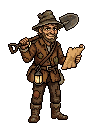
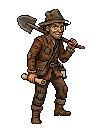
Events approved, the Targowisko's merchant, and three of the author's notes
The author: "278 A / 279 B / 280 D / 281 B / 282 tak / 283 tak / 284 tak".
The three events with a further choice are no longer drafts, with the
lost girl's figure B and the treasure hunter's D. The Targowisko has its
resident, Gościwit the merchant, with a story and greetings for the
author to approve; buying at his stall brings his relation, as many
points as the Kompania Kupców' reputation.

From the author's notes the same afternoon:
- "Klasa czeka: rozdaj Punkty Umiejętności" on the Statystyki card showed
  long before the class reached its first evolution, as the engine counts
  the points of the levels still to come; it shows only at that level now,
  as on the Umiejętności screen.
- The Karczma's words about the companions are the author's, with
  "zbuduj Kwatery w obozie" in bold and underlined.
- A herb, potion, material or part on the Targowisko opens its card under
  a tap: what it is, what the scrapper pays, the Zielarstwo level of a
  herb and how many the character has, with the merchant's "Kup" there.

Claude-Session: https://claude.ai/code/session_01EFZUMqpHps3KDRogHBzjf3

diff --git a/src/client/screens/market.js b/src/client/screens/market.js
@@ -9,7 +9,7 @@
 import { herbSprite, potionSprite } from '../art.js';
 import { materialIcon } from '../craft-table.js';
 import { h, icon } from '../dom.js';
-import { countOf, formatNumber } from '../format.js';
+import { countOf, formatDecimal, formatNumber } from '../format.js';
 import { call, serverNow, state } from '../state.js';
 import { closeSheet, confirmAction, openSheet, systemPanel, toast, withButton } from '../ui.js';
 import { itemSummary } from './character.js';
@@ -58,6 +58,55 @@ function stackLine(goods, { count = true } = {}) {
     ),
   );
 }
+
+// How many of a stack's goods the character already has.
+function owned(goods) {
+  const character = state.character;
+  if (goods.kind === 'herb') return character.herbs?.find((one) => one.id === goods.key)?.count ?? 0;
+  if (goods.kind === 'potion') return character.potions?.find((one) => one.id === goods.key)?.count ?? 0;
+  if (goods.kind === 'material') return character.crafting?.materials.find((one) => one.key === goods.key)?.count ?? 0;
+  if (goods.kind === 'part') return character.crafting?.parts.find((one) => one.id === goods.key)?.count ?? 0;
+  return 0;
+}
+
+// A stack's card (the author: "bym mogl kliknac przedmiot i go sprawdzić u
+// kupca"): its picture, what it is, what the scrapper pays for a piece, the
+// Zielarstwo level that gathers a herb, and how many the character has;
+// `actions` below, as the merchant's "Kup".
+function goodsSheet(goods, actions = null) {
+  const rarity = rarityOf(goods.rarity);
+  const colour = rarity ? { '--rarity': rarity.color } : {};
+  openSheet(
+    h(
+      'div',
+      { class: 'item-details' },
+      h(
+        'div',
+        { class: 'item-head' },
+        h('span', { class: 'item-art', vars: colour }, stackArt(goods, 32)),
+        h(
+          'div',
+          {},
+          h('h2', { class: 'item-title', vars: colour, text: goods.name }),
+          h('p', { class: 'item-meta', text: [KIND_NAMES[goods.kind], rarity?.name].filter(Boolean).join(' · ') }),
+        ),
+      ),
+      goods.description && h('p', { class: 'sheet-text', text: goods.description }),
+      h(
+        'ul',
+        { class: 'item-properties' },
+        goods.scrap !== undefined && goods.scrap !== null && h('li', { class: 'item-price', text: `U złomiarza: ${formatDecimal(goods.scrap)} złota za sztukę` }),
+        goods.gatherLevel && h('li', { text: `Do zebrania w Zielarstwie od poziomu ${goods.gatherLevel}.` }),
+        h('li', { text: `Masz: ${formatNumber(owned(goods))} szt.` }),
+      ),
+    ),
+    actions,
+  );
+}
+
+// A stack in one line that opens its card under a tap.
+const stackButton = (goods, options, actions) =>
+  h('button', { type: 'button', class: 'market-goods-button', 'aria-label': `${goods.name}: szczegóły`, onClick: () => goodsSheet(goods, actions?.()) }, stackLine(goods, options));
 
 // An item to buy, its properties under a tap, and when the character can
 // wear it: an item from the Targowisko is worn from its own level on, as
@@ -123,7 +172,7 @@ export function mountMarket(holder) {
     clocks.push({ element, at });
     return element;
   };
-  const goodsEntry = (goods, key) => (goods.kind === 'item' ? itemEntry(goods.item, key, opened) : stackLine(goods));
+  const goodsEntry = (goods, key) => (goods.kind === 'item' ? itemEntry(goods.item, key, opened) : stackButton(goods));
 
   async function load() {
     try {
@@ -363,7 +412,16 @@ export function mountMarket(holder) {
             h(
               'li',
               { class: 'card market-offer' },
-              stackLine(good, { count: false }),
+              stackButton(good, { count: false }, () => [
+                h('p', { class: 'market-price', text: `Kupiec: ${formatNumber(good.price)} zł za sztukę, dziś jeszcze ${formatNumber(good.left)} szt.` }),
+                h('button', {
+                  type: 'button',
+                  class: 'button button--world',
+                  text: 'Kup',
+                  disabled: good.left < 1 || state.character.gold < good.price,
+                  onClick: () => merchantSheet(good),
+                }),
+              ]),
               h('p', { class: 'market-price', text: `${formatNumber(good.price)} zł za sztukę` }),
               h('p', { class: 'muted', text: good.left > 0 ? `Dziś jeszcze ${formatNumber(good.left)} szt.` : 'Na dziś wykupione.' }),
               h(

diff --git a/src/server/market.js b/src/server/market.js
@@ -23,11 +23,13 @@ import {
   itemName,
   itemView,
   listBlock,
+  materialPrice,
   materialView,
   merchantStock,
   minimumBid,
   offerLimit,
   parseStack,
+  potionPrice,
   questPeriod,
   randomItem,
   sellerShare,
@@ -62,7 +64,10 @@ async function atomically(db, statements) {
   }
 }
 
-// A stack's goods by kind and key, as a parcel or an offer shows them.
+// A stack's goods by kind and key, as a parcel or an offer shows them, with
+// what its card tells (the author: "bym mogl kliknac przedmiot i go
+// sprawdzić u kupca"): its description, what the scrapper pays for a piece
+// (`scrap`) and, for a herb, the Zielarstwo level that gathers it.
 function goodsView(kind, key, count, item) {
   if (kind === 'item') {
     const data = JSON.parse(item);
@@ -70,11 +75,21 @@ function goodsView(kind, key, count, item) {
   }
   if (kind === 'material') {
     const material = materialView(key, count, content);
-    return { kind, key, count, name: material.label.charAt(0).toUpperCase() + material.label.slice(1), rarity: material.rarity, material };
+    const { description } = content.materialsById[material.materialId];
+    return { kind, key, count, name: material.label.charAt(0).toUpperCase() + material.label.slice(1), rarity: material.rarity, material, description, scrap: materialPrice(material.rarity, content) };
   }
-  if (kind === 'part') return { kind, key, count, name: content.partsById[key]?.name ?? key, rarity: content.partsById[key]?.rarity };
-  if (kind === 'herb') return { kind, key, count, name: content.herbsById[key]?.name ?? key };
-  if (kind === 'potion') return { kind, key, count, name: content.potionsById[key]?.name ?? key };
+  if (kind === 'part') {
+    const part = content.partsById[key];
+    return { kind, key, count, name: part?.name ?? key, rarity: part?.rarity, description: part?.description };
+  }
+  if (kind === 'herb') {
+    const herb = content.herbsById[key];
+    return { kind, key, count, name: herb?.name ?? key, description: herb?.description, scrap: herb?.price, gatherLevel: herb?.level };
+  }
+  if (kind === 'potion') {
+    const potion = content.potionsById[key];
+    return { kind, key, count, name: potion?.name ?? key, description: potion?.description, scrap: potion && potionPrice(potion, content) };
+  }
   return { kind: 'gold', count };
 }
 
@@ -398,11 +413,18 @@ function foreign(adds) {
   return counted('foreign_stacks', keyed);
 }
 
-// The day's reputation with the Kompania Kupców for trade worth `value`.
-function marketReputation(row, stored, value, now) {
+// The day's reputation with the Kompania Kupców for trade worth `value`;
+// buying at the merchant's stall (`relation`) brings as many points of the
+// relation with him (question 278 A).
+function marketReputation(row, stored, value, now, { relation = false } = {}) {
   const { points, trade } = tradePoints(value, row.level, stored.marketTrade, now, content, tuning().reputation);
-  const { brotherhood } = tuning();
-  return { ...stored, reputation: { ...stored.reputation, [brotherhood]: (stored.reputation[brotherhood] ?? 0) + points }, marketTrade: trade };
+  const { brotherhood, resident } = tuning();
+  return {
+    ...stored,
+    reputation: { ...stored.reputation, [brotherhood]: (stored.reputation[brotherhood] ?? 0) + points },
+    ...(relation && { relations: { ...stored.relations, [resident]: (stored.relations[resident] ?? 0) + points } }),
+    marketTrade: trade,
+  };
 }
 
 // The bag's free places, and the places stacks of herbs or potions take
@@ -514,7 +536,7 @@ export async function buyFromResident(context) {
     throw new ApiError(409, 'bag_full', 'Plecak jest pełny.');
   }
   const market = { ...stored.market, day: stock.day, bought: { ...bought, [good.id]: (bought[good.id] ?? 0) + count } };
-  const next = marketReputation(row, { ...stored, market }, price, now);
+  const next = marketReputation(row, { ...stored, market }, price, now, { relation: true });
   const column = COLUMNS[good.kind];
   const change = counted(column, { [good.key]: count });
   // Bought, not found: the Encyklopedia leaves it out, as a trade's.

diff --git a/src/client/screens/settlement.js b/src/client/screens/settlement.js
@@ -626,15 +626,19 @@ export function mountSettlement(container, { params = {} } = {}) {
   // Szybkie Polowanie) and this week's candidates, from the standing with
   // the innkeeper that gives a place and a bed in the camp's Kwatery.
   function companionsCard() {
-    const { places, moreBeds, cheaper, hired, candidates } = data.companions;
+    const { places, moreBeds, hired, candidates } = data.companions;
     const full = hired.length >= places;
-    // Every standing with Zbylut may hire, a lower one for more gold; each
-    // companion needs a bed in the camp's Kwatery.
-    const beds =
-      places === 0
-        ? ' Towarzysz potrzebuje posłania: zbuduj Kwatery w obozie.'
-        : ` Miejsca: ${hired.length} z ${places}.${full && moreBeds ? ' Kolejne posłanie da rozbudowa Kwater w obozie.' : ''}`;
-    const intro = `Towarzysze idą z tobą na każdą wyprawę poza Szybkim Polowaniem i rosną razem z tobą. Werbunek to jednorazowa opłata, bez żołdu${cheaper ? ', a im lepiej zna cię Zbylut, tym jest tańszy' : ''}.${beds}`;
+    // The author's words, the camp's Kwatery stressed in them; every
+    // standing with Zbylut may hire, a lower one for more gold, and each
+    // companion needs a bed there.
+    const intro = h(
+      'p',
+      { class: 'muted' },
+      'Towarzysze idą z tobą na każdą wyprawę poza Szybkim i Błyskawicznym Polowaniem. Rosną w siłę razem z tobą. Opłata za werbunek jest jednorazowa, a im lepiej zna cię Zbylut, tym jest tańsza. Towarzysz potrzebuje posłania: ',
+      h('strong', { class: 'text-stress', text: 'zbuduj Kwatery w obozie' }),
+      '.',
+    );
+    const beds = places > 0 && h('p', { class: 'muted', text: `Miejsca: ${hired.length} z ${places}.${full && moreBeds ? ' Kolejne posłanie da rozbudowa Kwater w obozie.' : ''}` });
     const dismiss = (companion) =>
       h('button', {
         type: 'button',
@@ -661,7 +665,8 @@ export function mountSettlement(container, { params = {} } = {}) {
       'section',
       { class: 'stack' },
       h('h2', { class: 'section-title', text: 'Towarzysze' }),
-      h('p', { class: 'muted', text: intro }),
+      intro,
+      beds,
       hired.map((companion) => companionCard(companion, dismiss(companion))),
       h('h2', { class: 'section-title', text: 'Szukają pracy w tym tygodniu' }),
       candidates.length === 0

diff --git a/test/events.test.js b/test/events.test.js
@@ -15,7 +15,7 @@ const bandits = ['bandit-thug', 'bandit-knifer', 'bandit-crossbow'];
 const woman = content.eventsById['wounded-woman'];
 // The events with tests of their own that come anywhere, or in the whole
 // forest (the leshy), left out where another event's places are checked.
-const elsewhere = new Set(['blue-mushroom', 'wandering-beggar', 'haunted-shrine', 'stuck-merchant', 'leshy']);
+const elsewhere = new Set(['blue-mushroom', 'wandering-beggar', 'haunted-shrine', 'stuck-merchant', 'leshy', 'lost-child', 'forest-wedding', 'treasure-hunter']);
 const placed = (list) => list.filter((event) => !elsewhere.has(event.id));
 
 // Whether every enemy moved before the first move of `allyId`.
@@ -262,7 +262,8 @@ describe('events', () => {
     const mushroom = content.eventsById['blue-mushroom'];
     const always = { ...content, events: { ...content.events, chance: 1 } };
     const hunt = (areaId) => ({ result: 'success', areaId, minutes: 30 });
-    const seeds = Array.from({ length: 30 }, (_, index) => `grzyb-${index}`);
+    // More events, so more explorations until the mushroom comes in each land.
+    const seeds = Array.from({ length: 80 }, (_, index) => `grzyb-${index}`);
     for (const areaId of ['windfalls-edge', 'viper-heaps', 'spider-gully', 'old-diggings']) {
       assert.ok(seeds.some((one) => eventFor({ hunt: hunt(areaId), seed: one }, always)?.id === mushroom.id), areaId);
     }
@@ -384,11 +385,11 @@ describe('events (API)', () => {
             endings: event.options.flatMap((option) => (Array.isArray(option.outcome) ? option.outcome.map(({ id: endingId, name }) => ({ id: endingId, name })) : [])),
           };
         }),
-        // The drafts with a further choice, on the test version only.
+        // The events with a further choice.
         ...['lost-child', 'forest-wedding', 'treasure-hunter'].map((id) => ({
           id,
           title: content.eventsById[id].title,
-          draft: true,
+          draft: false,
           cases: content.eventsById[id].cases.map(({ id: caseId, name }) => ({ id: caseId, name })),
           endings: [],
         })),

diff --git a/test/market.test.js b/test/market.test.js
@@ -343,6 +343,23 @@ describe('the Targowisko through the API', () => {
     const part = view.merchant.goods.find((one) => one.kind === 'part');
     await act('Kupiec', 'resident', { from: 'merchant', id: part.id, count: 1 });
     assert.equal(JSON.parse((await row('Kupiec')).parts)[part.key], 1);
+    // Buying at his stall brings the relation with Gościwit, as many points
+    // as the Kompania Kupców' reputation: a point for each 5 gold times the
+    // character's level in a purchase (278 A).
+    await act('Kupiec', 'resident', { from: 'merchant', id: good.id, count: tuning.merchant.stock - 3 });
+    const perPoint = tuning.reputation.goldPerPointPerLevel * 25;
+    const expected = Math.min(
+      tuning.reputation.daily,
+      [good.price * 3, part.price, good.price * (tuning.merchant.stock - 3)].reduce((sum, value) => sum + Math.floor(value / perPoint), 0),
+    );
+    const stored = JSON.parse((await row('Kupiec')).settlement);
+    assert.equal(stored.reputation.merchants, expected);
+    assert.equal(stored.relations.merchant, expected);
+    // He stands at the Targowisko as its resident, at his standing.
+    const { settlement } = (await call('GET', '/api/settlement', { cookie: cookies.Kupiec })).data;
+    assert.equal(settlement.places.find((place) => place.id === 'market').resident, 'merchant');
+    const merchant = settlement.residents.find((resident) => resident.id === 'merchant');
+    assert.deepEqual([merchant.name, merchant.title, merchant.greeting], ['Gościwit', 'kupiec', content.settlement.residents.find((one) => one.id === 'merchant').greetings[0]]);
   });
 
   test('on the test version the wandering trader comes today and a trial trader puts up offers that pay no one', async () => {

diff --git a/src/client/screens/stats.js b/src/client/screens/stats.js
@@ -84,10 +84,14 @@ export function mountStats(container) {
   }
 
   // Before the first evolution, the class waiting at it for its skills or
-  // the choice (evolutionBlock in the engine), or the evolution taken.
+  // the choice (evolutionBlock in the engine), or the evolution taken. The
+  // engine names what the skills will still need at the evolution's level,
+  // counting the points of the levels to come, so the class waits only once
+  // it stands at that level (as on the Umiejętności screen); before, the
+  // hint shows where the evolution is.
   function evolutionHint(character, evolution) {
-    const need = character.skills?.evolution?.need;
-    if (need === 'skill_points') return 'KLASA CZEKA: ROZDAJ PUNKTY UMIEJĘTNOŚCI';
+    const { need, level = evolution } = character.skills?.evolution ?? {};
+    if (need === 'skill_points' && character.classLevel >= level) return 'KLASA CZEKA: ROZDAJ PUNKTY UMIEJĘTNOŚCI';
     if (character.evolution?.current) return `EWOLUCJA: ${character.className.toUpperCase()}`;
     if (character.classLevel < evolution) return `PIERWSZA EWOLUCJA: POZ. KLASY ${evolution}`;
     if (need === 'second_path') return 'KLASA CZEKA: WYBIERZ ŚCIEŻKĘ POBOCZNĄ';

diff --git a/test/event-choices.test.js b/test/event-choices.test.js
@@ -1,8 +1,9 @@
 // Events with a further choice (the author: "z więcej niż jedną decyzją, po
 // której kliknięciu dalej trzeba coś decydować"): an option of kind
 // "choice" tells what happened and offers new options, and only the last
-// one ends the event. The three drafts that use it: the lost girl, the
-// wedding in the forest and the treasure hunter.
+// one ends the event. The three events that use it, approved by the author
+// (282-284): the lost girl, the wedding in the forest and the treasure
+// hunter.
 
 import assert from 'node:assert/strict';
 import { beforeEach, describe, test } from 'node:test';
@@ -84,7 +85,7 @@ describe('events with a further choice', () => {
 
   test('each event: two steps in every case, and each path of two choices ends in every case', () => {
     for (const event of [child, wedding, hunter]) {
-      assert.equal(event.draft, true);
+      assert.equal(event.draft, undefined);
       for (const one of event.cases) {
         for (const first of event.options) {
           const walk = eventChoices(event, [first.id], { seed, caseId: one.id });

diff --git a/src/client/styles.css b/src/client/styles.css
@@ -9335,3 +9335,38 @@ a.profession-square:active {
   font-size: 13px;
   text-align: right;
 }
+
+/* A stack on the Targowisko that opens its card under a tap, with a mark
+   that says so. */
+.market-goods-button {
+  display: flex;
+  align-items: center;
+  gap: 8px;
+  width: 100%;
+  padding: 0;
+  border: 0;
+  background: none;
+  color: inherit;
+  font: inherit;
+  text-align: left;
+  cursor: pointer;
+}
+
+.market-goods-button::after {
+  content: '›';
+  margin-left: auto;
+  color: var(--text-muted);
+  font-size: 22px;
+  line-height: 1;
+}
+
+/* Words to act on inside a muted line (the author: "ładnie wytłuszczyć,
+   podkreślić"), as the Kwatery to build for a companion's bed. */
+.text-stress {
+  color: var(--text);
+  font-weight: 700;
+  text-decoration: underline;
+  text-decoration-thickness: 2px;
+  text-decoration-skip-ink: none;
+  text-underline-offset: 3px;
+}

diff --git a/DECISIONS.md b/DECISIONS.md
@@ -2996,7 +2996,24 @@ Autor: „243 A / 244 A / 245 A / 246 A / 247 B -> musi wyglądać trochę dosto
 3. **Zdarzenia.** Kupiec (251), Leszy (252) i portret Upiora (254 A) są zatwierdzone. Portret Leszego do pojedynku to główna postać zmniejszona do 48 px, z cienkim ciemnym konturem (259 czeka na ocenę).
 4. **Kwatery (253 A).** Wyglądy budynku są zatwierdzone. Plansza obozu zostanie powiększona jak plansza Osady, żeby zmieściły się Kwatery i kolejne budynki.
 
-## Zdarzenia z dalszym wyborem (31.10.2026, szkice na wersji testowej)
+## Uwagi autora z 31.10, po odpowiedziach 278–284 (na wersji testowej)
+
+1. **„Klasa czeka” bez punktów.** Autor: „Skąd ten tekst że klasa czeka na rozdanie punktów skoro nie mam punktów?” (Łucznik, 34. poziom klasy).
+    - **Przyczyna:** silnik sprawdza, czy przy pierwszej ewolucji (50. poziom klasy) zostaną nierozdane Punkty Umiejętności. Liczy przy tym też punkty z poziomów, których klasa jeszcze nie ma. Ekran Umiejętności pokazywał „klasa czeka” dopiero na poziomie ewolucji, a karta Statystyki od razu.
+    - **Poprawka:** Statystyki mówią „Klasa czeka: rozdaj Punkty Umiejętności” dopiero wtedy, gdy klasa stoi na poziomie ewolucji. Wcześniej pokazują „Pierwsza ewolucja: poz. klasy 50”. Ten błąd jest też w grze.
+2. **Tekst o towarzyszach w Karczmie**, w brzmieniu autora: „Towarzysze idą z tobą na każdą wyprawę poza Szybkim i Błyskawicznym Polowaniem. Rosną w siłę razem z tobą. Opłata za werbunek jest jednorazowa, a im lepiej zna cię Zbylut, tym jest tańsza. Towarzysz potrzebuje posłania: zbuduj Kwatery w obozie”. Słowa „zbuduj Kwatery w obozie” są wytłuszczone i podkreślone (autor: „to w <> jakos ladnie wytluszczyc, podkreślić”). Liczba zajętych posłań („Miejsca: 1 z 2”) jest w osobnym zdaniu pod spodem, gdy Kwatery już stoją.
+3. **Podgląd towaru u kupca.** Autor: „zrob tez tak bym mogl kliknac przedmiot i go sprawdzić u kupca na targowisku”. Stuknięcie zioła, mikstury, materiału albo części na Targowisku (u kupca i w ofertach graczy) otwiera kartę towaru. Karta ma obrazek, opis, cenę u złomiarza, poziom Zielarstwa, od którego zbiera się to zioło, i liczbę sztuk, które postać już ma. U kupca karta pokazuje też jego cenę i przycisk „Kup”.
+
+## Odpowiedzi 278–284 (31.10.2026)
+
+Autor: „278 A / 279 B / 280 D / 281 B / 282 tak / 283 tak / 284 tak”.
+
+1. **Zdarzenia zatwierdzone (282–284).** Zagubiona dziewczynka, Wesele w borze i Poszukiwacz skarbów nie są już szkicami. Na wersji testowej przychodzą jak każde inne zdarzenie, a w grze pojawią się po najbliższym wdrożeniu.
+2. **Postacie zdarzeń (279–281).** Dziewczynka jest w wersji B, poszukiwacz w D, a starosta weselny w B.
+3. **Kupiec Targowiska (278 A).** Na Targowisku mieszka Gościwit, kupiec. Ma historię i powitania na każdy stopień relacji (do akceptacji autora, pytanie 286), a popiersie czeka na wybór (285).
+    - **Brakujący szczegół: relacja.** Zakupy na jego straganie dają relację z nim, tyle samo punktów, co reputacji Kompanii Kupców (najwyżej 10 dziennie). Na razie relacja zmienia tylko powitanie, a czy ma też obniżać ceny, rozstrzyga pytanie 287.
+
+## Zdarzenia z dalszym wyborem (31.10.2026, na wersji testowej)
 
 Autor: „Niedługo będę nieobecny kilka godzin przygotuj kolejne 3 zdarzenia w tym czasie, bardziej rozbudowane (z więcej niż jedną decyzją, po której kliknięciu dalej trzeba coś decydować = 2 wybory)”.
 
